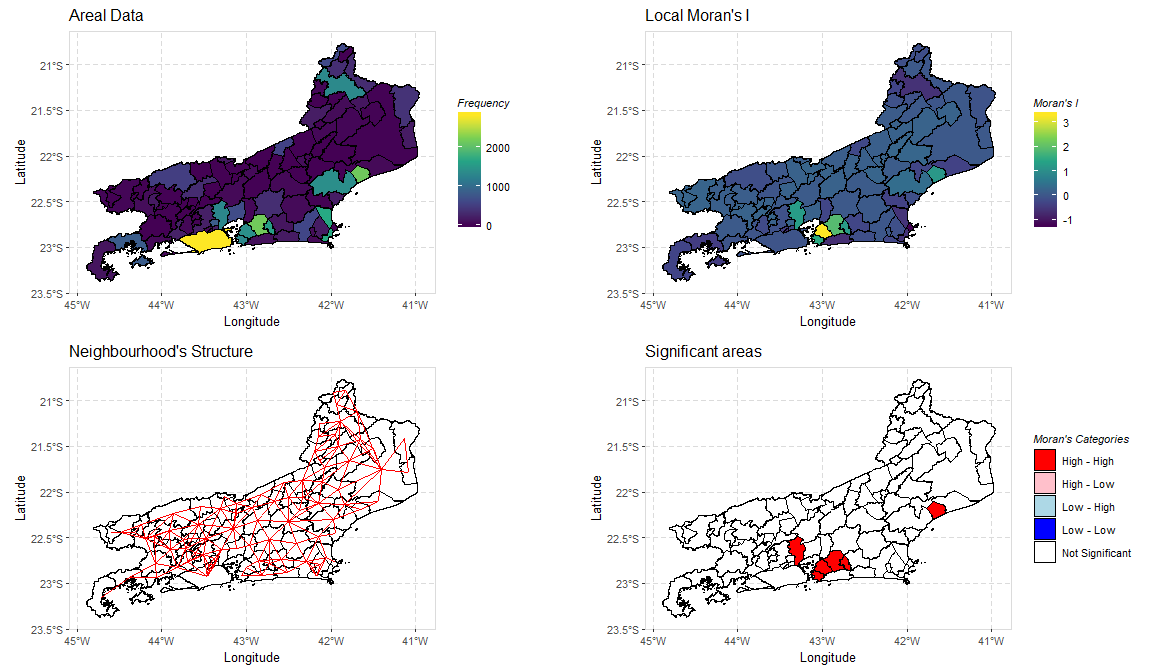
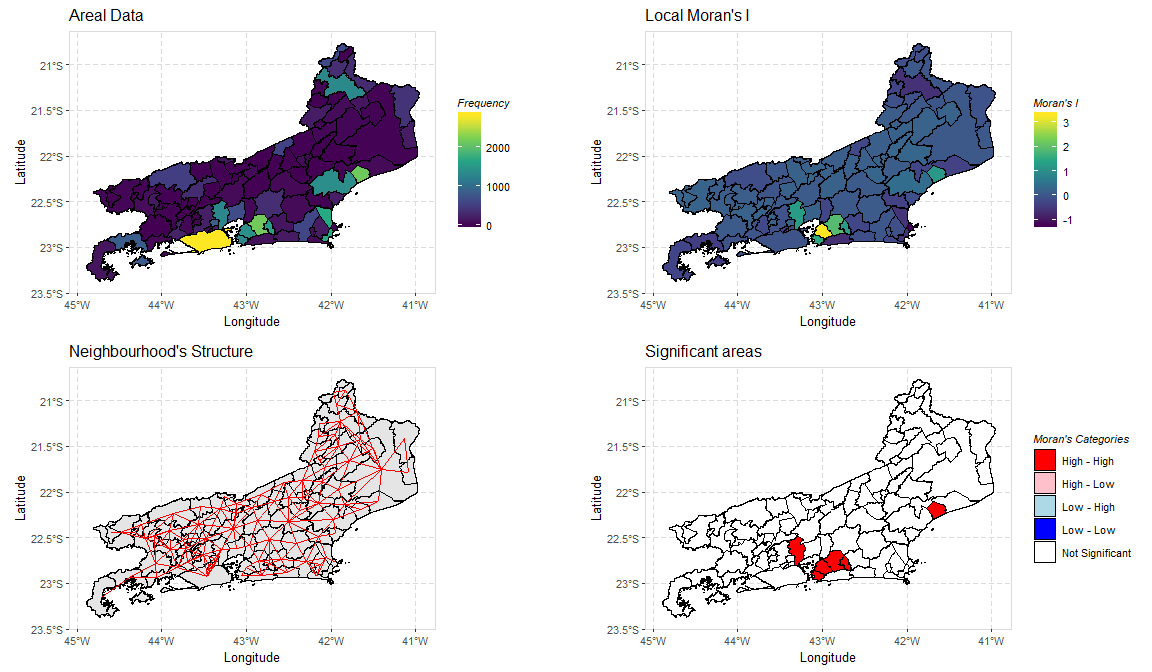
update

Changed region(s): [[0.0625, 0.5625, 0.375, 0.9062]]

diff --git a/README.md b/README.md
@@ -36,6 +36,17 @@ dengue2010 = lmoranmap(shapefile = rio, adata = dengue.data$`2010`)
 
 <img src="man/figures/README-unnamed-chunk-4-1.png" width="100%" style="display: block; margin: auto;" />
 
+It's also possible to create the neighbourhoods using the knearneigh function from spdep, in this case the k areas with the nearest centroids will be considered as neighbours.
+
+``` r
+dengue.data = dengue
+rio = rioshapefile
+
+dengue2010 = lmoranmap(shapefile = rio, adata = dengue.data$`2010`, knearest = 5)
+```
+
+<img src="man/figures/README-unnamed-chunk-7-1.png" width="100%" style="display: block; margin: auto;" />
+
 The **areamap** function works in a similar way to the sp's spplot function, it receives a shapefile and a vector of data and generates the map using ggplot2.
 
 ``` r
@@ -44,7 +55,7 @@ maptitle = "Dengue counts for Rio de Janeiro in 2010",
 guidetitle = "Frequency")
 ```
 
-<img src="man/figures/README-unnamed-chunk-7-1.png" width="100%" style="display: block; margin: auto;" />
+<img src="man/figures/README-unnamed-chunk-10-1.png" width="100%" style="display: block; margin: auto;" />
 
 ### Point Pattern Data
 
@@ -61,4 +72,4 @@ longitude = accidents.data$longitude, accidents.data$latitude,
 fun = c("G", "F"), sigma = 0.01, nsim = 5)
 ```
 
-<img src="man/figures/README-unnamed-chunk-10-1.png" width="100%" style="display: block; margin: auto;" />
+<img src="man/figures/README-unnamed-chunk-13-1.png" width="100%" style="display: block; margin: auto;" />
